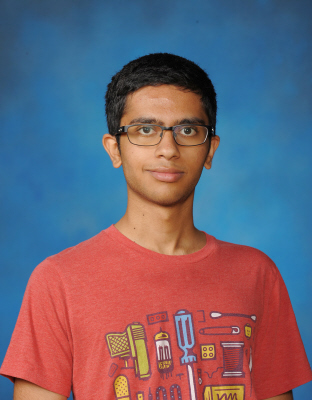
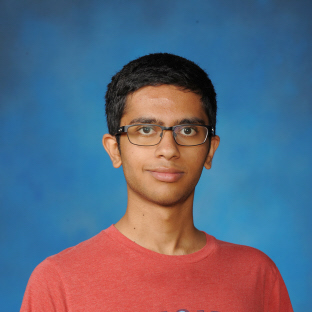
shaunak

diff --git a/about-us.html b/about-us.html
@@ -202,7 +202,7 @@
                         <div class="tiles-item reveal-from-bottom" data-reveal-delay="200">
                            <div class="tiles-item-inner">
                               <div class="team-item-header">
-                                 <div class="team-item-image mb-24"><img src="images/shaunak.jpg" alt="Team member 06" style="object-fit: fill;" width="180" height="180"></div>
+                                 <div class="team-item-image mb-24"><img src="images/shaunak.jpg" alt="Team member 06" style=" width:180; height: 180; object-fit: cover;" width="180" height="180"></div>
                               </div>
                               <div class="team-item-content">
                                  <h5 class="team-item-name mt-0 mb-4">Shaunak</h5>
